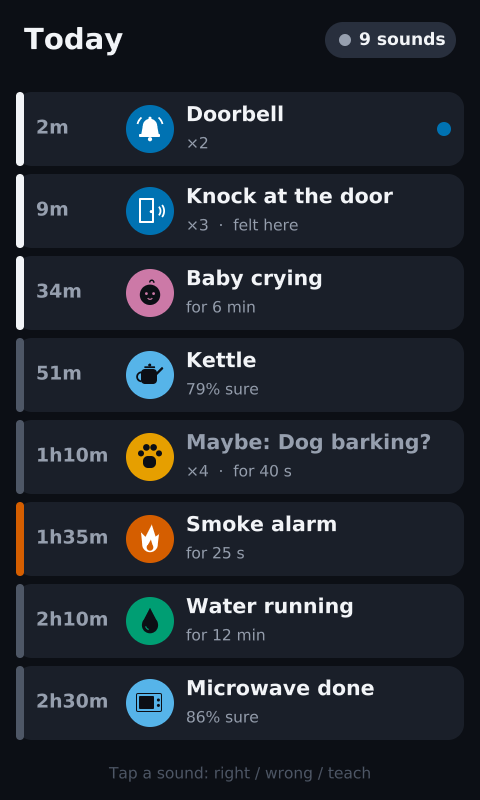
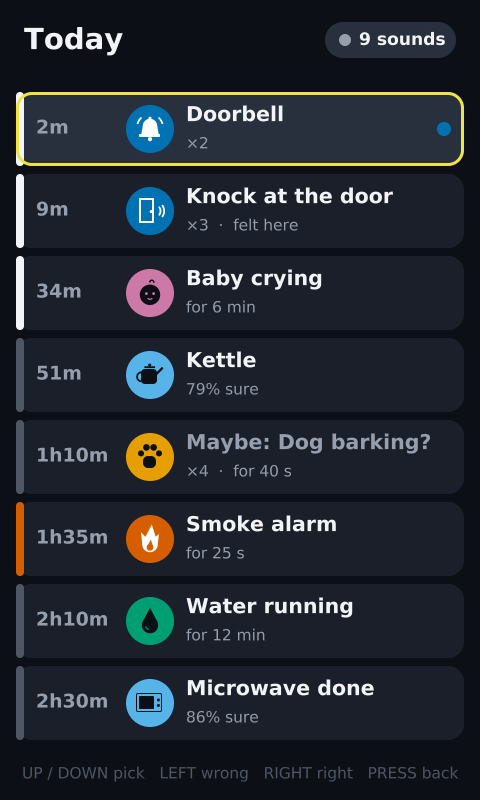
T4 fix mistakes: LEFT wrong / RIGHT right on alerts and the timeline
Wrong keeps the event's embedding as a counter-example: a later sound closer to it than to the
profile is vetoed (flash for taught sounds, RAM for built-ins). Right on a taught sound adds the
example and rebuilds the profile and threshold. Host commands 15 (boot test clip through the real
decision) and 16 (mark an event) test it with no sound: the dog clip matched at 0.79, was marked
wrong, and was vetoed after.

diff --git a/firmware/soundsense/main.cpp b/firmware/soundsense/main.cpp
@@ -115,6 +115,23 @@ static uint8_t taught_n_ex[MAX_TAUGHT];
 static_assert(MAX_TAUGHT <= SS_STORE_MAX_PROF && SHOTS <= SS_STORE_MAX_EX, "flash record too small");
 static int knock_prof = -1;
 
+/* T4: sounds the user marked "wrong" for a profile. A sound closer to one of them than to the profile
+ * itself doesn't count as that profile. Kept in flash for taught sounds; for built-ins until restart. */
+#define CX_MIN 0.70f
+static int8_t cx[MAX_PROF][SS_STORE_MAX_EX][SS_EMB];
+static uint8_t n_cx[MAX_PROF];
+
+static float cx_score(int p, const float *e)
+{
+    float best = -1.0f, c[SS_EMB];
+    for (int k = 0; k < n_cx[p]; k++) {
+        ss_store_f32(cx[p][k], c);
+        const float d = ss_dot(e, c);
+        if (d > best) best = d;
+    }
+    return best;
+}
+
 static const look kFallback = {"?", "Sound", UI_ICON_UNKNOWN, UI_CAT_OTHER, UI_INFO};
 
 /* Built-in profiles in RAM, so they can be re-measured on the board (G3 row 7): the trained ones,
@@ -152,7 +169,7 @@ SS_COLD static void profiles_init(void)
 }
 
 /* Taught profile for a preset: replaces an earlier one of the same name. ex: n int8 examples. */
-SS_COLD static void profile_add(int preset, const float *proto, float thr, const int8_t (*ex)[SS_EMB], int n)
+SS_COLD static int profile_add(int preset, const float *proto, float thr, const int8_t (*ex)[SS_EMB], int n)
 {
     int slot = -1;
     for (int k = 0; k < n_taught; k++)
@@ -166,7 +183,9 @@ SS_COLD static void profile_add(int preset, const float *proto, float thr, const
     memcpy(taught_ex[slot], ex, (size_t)n * SS_EMB);
     taught_n_ex[slot] = (uint8_t)n;
     prof[SS_NUM_BUILTIN + slot] = {&kPresets[preset], taught_proto[slot], thr, true, preset};
+    n_cx[SS_NUM_BUILTIN + slot] = 0;
     n_prof = SS_NUM_BUILTIN + n_taught;
+    return slot;
 }
 
 /* ---------- flash copy of the taught sounds ---------- */
@@ -191,6 +210,8 @@ SS_COLD static void store_save(void)
         memcpy(s.proto, p.proto, sizeof(s.proto));
         s.n_ex = taught_n_ex[k];
         memcpy(s.ex, taught_ex[k], sizeof(s.ex));
+        s.n_cx = n_cx[SS_NUM_BUILTIN + k];
+        memcpy(s.cx, cx[SS_NUM_BUILTIN + k], sizeof(s.cx));
     }
     ss_store_save(&store_img);
 }
@@ -231,7 +252,9 @@ SS_COLD static int store_load(void)
             printf("[STORE] skipped unknown sound '%s'\r\n", s.key);
             continue;
         }
-        profile_add(preset, s.proto, s.thr, s.ex, s.n_ex);
+        const int slot = profile_add(preset, s.proto, s.thr, s.ex, s.n_ex);
+        n_cx[SS_NUM_BUILTIN + slot] = s.n_cx;
+        memcpy(cx[SS_NUM_BUILTIN + slot], s.cx, sizeof(s.cx));
     }
     const ss_store_stats *st = ss_store_get_stats();
     printf("[STORE] loaded %d taught sounds from copy %c, seq %lu, in %lu us\r\n", n_taught, 'A' + st->copy,
@@ -335,11 +358,16 @@ SS_COLD static bool self_test(char *detail, size_t len)
 
 static ui_event events[MAX_EVENTS];   /* newest first */
 static int n_events;
+static int8_t ev_emb[MAX_EVENTS][SS_EMB];   /* each event's latest embedding and profile, for T4 */
+static int8_t ev_prof[MAX_EVENTS];
 
-static ui_event *add_event(const look *lk, bool maybe, ui_felt felt, float score, uint32_t t, bool *merged)
+static ui_event *add_event(const look *lk, bool maybe, ui_felt felt, float score, uint32_t t, bool *merged,
+                           const float *emb, int p)
 {
     ui_event *e = &events[0];
     if (n_events && e->label == lk->label && t - (e->t_ms + e->dur_ms) < MERGE_MS) {
+        ss_store_q8(emb, ev_emb[0]);
+        ev_prof[0] = (int8_t)p;
         e->count++;
         e->dur_ms = t - e->t_ms;
         e->maybe = e->maybe && maybe;
@@ -350,6 +378,10 @@ static ui_event *add_event(const look *lk, bool maybe, ui_felt felt, float score
     }
     if (n_events < MAX_EVENTS) n_events++;
     memmove(&events[1], &events[0], (size_t)(n_events - 1) * sizeof(ui_event));
+    memmove(&ev_emb[1], &ev_emb[0], (size_t)(n_events - 1) * SS_EMB);
+    memmove(&ev_prof[1], &ev_prof[0], (size_t)(n_events - 1));
+    ss_store_q8(emb, ev_emb[0]);
+    ev_prof[0] = (int8_t)p;
     memset(e, 0, sizeof(*e));
     e->label = lk->label;
     e->icon = lk->icon;
@@ -626,6 +658,8 @@ SS_COLD static void cal_finish(void)
     printf("\r\n");
 }
 
+static void classify(const float *e, const float *s, float snr, int clipped, uint32_t onset_ms);
+
 static void decide(uint32_t onset, uint32_t onset_ms)
 {
     static int8_t in[IN_LEN];
@@ -639,7 +673,6 @@ static void decide(uint32_t onset, uint32_t onset_ms)
     score_all(e, s);
     int clipped;
     const float snr = snr_of(onset - KWS_SR / 5, &clipped);
-    const uint32_t now = ss_ms();
 
     if (scr == TEACH) {
         if (tc.ph != T_NAMING) teach_shot(e, snr, clipped);
@@ -657,11 +690,19 @@ static void decide(uint32_t onset, uint32_t onset_ms)
         printf("[SS] t=%lu skipped (joystick)\r\n", (unsigned long)onset_ms);
         return;
     }
+    classify(e, s, snr, clipped, onset_ms);
+}
+
+/* The decision for one sound: its embedding e, scores s, level over the room, and onset time. */
+static void classify(const float *e, const float *s, float snr, int clipped, uint32_t onset_ms)
+{
     int b2;
     const int b = best_of(s, &b2);
     float mg = 0.0f;
     const ui_felt felt = felt_at(onset_ms, &mg);
-    const bool over = s[b] >= prof[b].thr;
+    const float cxs = cx_score(b, e);
+    const bool veto = s[b] >= prof[b].thr && cxs >= CX_MIN && cxs > s[b];   /* T4: like a sound marked wrong */
+    const bool over = s[b] >= prof[b].thr && !veto;
     const bool loud = snr >= MIN_SNR_DB;
 
     const look *lk = NULL;
@@ -683,15 +724,79 @@ static void decide(uint32_t onset, uint32_t onset_ms)
            (double)prof[b].thr, b2 >= 0 ? prof[b2].lk->label : "-", b2 >= 0 ? (double)s[b2] : 0.0,
            felt == UI_FELT_YES ? "yes" : felt == UI_FELT_HEARD_ONLY ? "no" : "n/a", (double)mg,
            lk ? (maybe ? "maybe " : "") : "", lk ? lk->label : (loud ? "unknown" : "quiet"));
+    if (veto) printf("[SS] '%s' vetoed: %.2f to a sound marked wrong\r\n", prof[b].lk->label, (double)cxs);
     if (!lk) return;
 
     bool merged;
-    ui_event *ev = add_event(lk, maybe, f, score, onset_ms, &merged);
+    ui_event *ev = add_event(lk, maybe, f, score, onset_ms, &merged, e, lk == prof[knock_prof].lk ? knock_prof : b);
     /* a knock only heard (TV?) is shown as a banner, not a full-screen alert */
     if (lk == prof[knock_prof].lk && f == UI_FELT_HEARD_ONLY) ev->urgency = UI_INFO;
-    lat[n_lat++ % 16] = now - onset_ms;
+    lat[n_lat++ % 16] = ss_ms() - onset_ms;
     alert_raise(ev);
     if (scr == HOME) redraw = true;
+}
+
+/* ---------- fixing mistakes (T4) ---------- */
+
+/* "Right" on a taught sound: its embedding joins the examples (the oldest goes when full), and the
+ * profile and threshold are rebuilt from all of them, as when teaching. */
+SS_COLD static void taught_add_example(int k, const int8_t *q)
+{
+    int n = taught_n_ex[k];
+    if (n >= SS_STORE_MAX_EX) {
+        memmove(taught_ex[k][0], taught_ex[k][1], (size_t)(n - 1) * SS_EMB);
+        n--;
+    }
+    memcpy(taught_ex[k][n++], q, SS_EMB);
+    taught_n_ex[k] = (uint8_t)n;
+    float emb[SS_STORE_MAX_EX][SS_EMB];
+    for (int j = 0; j < n; j++) ss_store_f32(taught_ex[k][j], emb[j]);
+    profile &p = prof[SS_NUM_BUILTIN + k];
+    const float was = p.thr;
+    p.thr = ss_make_profile(emb, n, taught_proto[k], NULL);
+    printf("[SS] '%s' marked right: now %d examples, threshold %.3f -> %.3f\r\n", p.lk->label, n, (double)was,
+           (double)p.thr);
+    store_save();
+}
+
+/* The user says event i was right or wrong (from its alert or the timeline). */
+SS_COLD static void event_mark(int i, bool right)
+{
+    if (i < 0 || i >= n_events) return;
+    ui_event *ev = &events[i];
+    const int p = ev_prof[i];
+    if (p < 0 || p >= n_prof || prof[p].lk->label != ev->label) {
+        printf("[SS] can't mark '%s': that sound was forgotten\r\n", ev->label);
+        return;
+    }
+    ev->acked = true;
+    ev->fixed = right ? 1 : 2;
+    if (right) {
+        if (p >= SS_NUM_BUILTIN) taught_add_example(p - SS_NUM_BUILTIN, ev_emb[i]);
+        else printf("[SS] '%s' marked right\r\n", ev->label);
+        return;
+    }
+    if (n_cx[p] >= SS_STORE_MAX_EX) {   /* full: the oldest goes */
+        memmove(cx[p][0], cx[p][1], (SS_STORE_MAX_EX - 1) * SS_EMB);
+        n_cx[p]--;
+    }
+    memcpy(cx[p][n_cx[p]++], ev_emb[i], SS_EMB);
+    printf("[SS] '%s' marked wrong: kept as counter-example %d%s\r\n", ev->label, n_cx[p],
+           p >= SS_NUM_BUILTIN ? ", saved" : " (built-in: until restart)");
+    if (p >= SS_NUM_BUILTIN) store_save();
+}
+
+/* Host command 15: the boot test clip (a dog bark) through the encoder and the decision, as if just
+ * heard: a silent way to test the whole decision path, counter-examples included. */
+SS_COLD static void classify_test_clip(void)
+{
+    int8_t out[SS_EMB];
+    float e[SS_EMB], s[MAX_PROF];
+    if (!infer(ss_test_input, out)) return;
+    ss_embed(out, e);
+    score_all(e, s);
+    printf("[SS] command 15: the boot test clip ('%s') as if just heard\r\n", SS_TEST_NAME);
+    classify(e, s, 20.0f, 0, ss_ms());
 }
 
 /* ---------- managing taught sounds (T7) and the menu ---------- */
@@ -707,6 +812,8 @@ SS_COLD static void taught_forget(int k)
         taught_n_ex[j] = taught_n_ex[j + 1];
         prof[SS_NUM_BUILTIN + j] = prof[SS_NUM_BUILTIN + j + 1];
         prof[SS_NUM_BUILTIN + j].proto = taught_proto[j];
+        memcpy(cx[SS_NUM_BUILTIN + j], cx[SS_NUM_BUILTIN + j + 1], sizeof(cx[0]));
+        n_cx[SS_NUM_BUILTIN + j] = n_cx[SS_NUM_BUILTIN + j + 1];
     }
     n_taught--;
     n_prof = SS_NUM_BUILTIN + n_taught;
@@ -839,7 +946,7 @@ SS_COLD static void inject(uint32_t a)
     const ui_felt f = a & 0x200u ? UI_FELT_YES : a & 0x400u ? UI_FELT_HEARD_ONLY : UI_FELT_NA;
     const uint32_t now = ss_ms();
     bool merged;
-    ui_event *ev = add_event(prof[p].lk, (a & 0x100u) != 0, f, prof[p].thr + 0.1f, now, &merged);
+    ui_event *ev = add_event(prof[p].lk, (a & 0x100u) != 0, f, prof[p].thr + 0.1f, now, &merged, prof[p].proto, p);
     if (p == knock_prof && f == UI_FELT_HEARD_ONLY) ev->urgency = UI_INFO;
     printf("[SS] t=%lu injected '%s'%s (host command 13, no sound)\r\n", (unsigned long)now, prof[p].lk->label,
            a & 0x100u ? " maybe" : "");
@@ -852,7 +959,8 @@ SS_COLD static void inject(uint32_t a)
  * 8 press joystick keys (ss_arg = SS_JOY_* bits), 9 re-measure built-in ss_arg from the next sounds,
  * 10 finish re-measuring, 11 save to flash ss_arg times back to back (C2 row 1), 12 fill every taught
  * slot with a stand-in (C2 bench, full-size record), 13 fake a recognised sound (see inject()),
- * 14 redraw the whole screen 10 times a second for ss_arg seconds (C3 row 3). */
+ * 14 redraw the whole screen 10 times a second for ss_arg seconds (C3 row 3), 15 classify the boot test
+ * clip as if heard, 16 mark timeline event (ss_arg & 0xff) wrong, or right with bit 8 (T4). */
 static void host_command(void)
 {
     const uint32_t c = ss_cmd, a = ss_arg;
@@ -874,6 +982,8 @@ static void host_command(void)
     case 12: store_fill_test(); break;
     case 13: inject(a); break;
     case 14: stress_until = ss_ms() + 1000u * (a ? a : 10); break;
+    case 15: classify_test_clip(); break;
+    case 16: event_mark((int)(a & 0xffu), (a & 0x100u) != 0); redraw = true; break;
     }
 }
 
@@ -897,13 +1007,21 @@ static void on_keys(uint32_t k)
         else if (k & SS_JOY_CENTER) menu_choose();
         redraw = true;
         break;
-    case ALERT:
+    case ALERT:   /* LEFT: wrong sound, RIGHT: right (T4); the alert's event is the newest with its label */
+        if (k & (SS_JOY_LEFT | SS_JOY_RIGHT) && !alert_ev.unanswered_ms)
+            for (int i = 0; i < n_events; i++)
+                if (events[i].label == alert_ev.label) {
+                    event_mark(i, (k & SS_JOY_RIGHT) != 0);
+                    break;
+                }
         go_home();
         break;
-    case TIMELINE:
-        if (k & SS_JOY_UP) { if (tl_first > 0) tl_first--; redraw = true; }
-        else if (k & SS_JOY_DOWN) { if (tl_first + 1 < n_events) tl_first++; redraw = true; }
-        else go_home();
+    case TIMELINE:   /* the top row is the selected one: LEFT wrong, RIGHT right (T4) */
+        if (k & SS_JOY_UP) { if (tl_first > 0) tl_first--; }
+        else if (k & SS_JOY_DOWN) { if (tl_first + 1 < n_events) tl_first++; }
+        else if (k & (SS_JOY_LEFT | SS_JOY_RIGHT)) event_mark(tl_first, (k & SS_JOY_RIGHT) != 0);
+        else { go_home(); break; }
+        redraw = true;
         break;
     case STATS:
         go_home();

diff --git a/tools/ui_sim/ui_sim.c b/tools/ui_sim/ui_sim.c
@@ -110,15 +110,15 @@ static void save(const char *name)
 #define NOW (3 * 3600000u + 25 * MIN)
 
 static const ui_event events[] = {
-    {"Doorbell", UI_ICON_DOORBELL, UI_CAT_DOOR, UI_IMPORTANT, false, UI_FELT_NA, 94, 2, NOW - 2 * MIN, 0, false, 0},
-    {"Knock at the door", UI_ICON_KNOCK, UI_CAT_DOOR, UI_IMPORTANT, false, UI_FELT_YES, 88, 3, NOW - 9 * MIN, 0, true, 0},
-    {"Baby crying", UI_ICON_BABY, UI_CAT_FAMILY, UI_IMPORTANT, false, UI_FELT_NA, 91, 1, NOW - 34 * MIN, 6 * MIN, true, 0},
-    {"Kettle", UI_ICON_KETTLE, UI_CAT_APPLIANCE, UI_INFO, false, UI_FELT_NA, 79, 1, NOW - 51 * MIN, 0, true, 0},
-    {"Dog barking", UI_ICON_DOG, UI_CAT_ANIMAL, UI_INFO, true, UI_FELT_NA, 58, 4, NOW - 70 * MIN, 40000, true, 0},
-    {"Smoke alarm", UI_ICON_SMOKE, UI_CAT_SAFETY, UI_URGENT, false, UI_FELT_NA, 97, 1, NOW - 95 * MIN, 25000, true, 0},
-    {"Water running", UI_ICON_WATER, UI_CAT_WATER, UI_INFO, false, UI_FELT_NA, 83, 1, NOW - 130 * MIN, 12 * MIN, true, 0},
-    {"Microwave done", UI_ICON_MICROWAVE, UI_CAT_APPLIANCE, UI_INFO, false, UI_FELT_NA, 86, 1, NOW - 150 * MIN, 0, true, 0},
-    {"Sam's phone", UI_ICON_PHONE, UI_CAT_APPLIANCE, UI_INFO, false, UI_FELT_NA, 81, 1, NOW - 160 * MIN, 0, true, 0},
+    {"Doorbell", UI_ICON_DOORBELL, UI_CAT_DOOR, UI_IMPORTANT, false, UI_FELT_NA, 94, 2, NOW - 2 * MIN, 0, false, 0, 0},
+    {"Knock at the door", UI_ICON_KNOCK, UI_CAT_DOOR, UI_IMPORTANT, false, UI_FELT_YES, 88, 3, NOW - 9 * MIN, 0, true, 0, 0},
+    {"Baby crying", UI_ICON_BABY, UI_CAT_FAMILY, UI_IMPORTANT, false, UI_FELT_NA, 91, 1, NOW - 34 * MIN, 6 * MIN, true, 0, 0},
+    {"Kettle", UI_ICON_KETTLE, UI_CAT_APPLIANCE, UI_INFO, false, UI_FELT_NA, 79, 1, NOW - 51 * MIN, 0, true, 0, 0},
+    {"Dog barking", UI_ICON_DOG, UI_CAT_ANIMAL, UI_INFO, true, UI_FELT_NA, 58, 4, NOW - 70 * MIN, 40000, true, 0, 0},
+    {"Smoke alarm", UI_ICON_SMOKE, UI_CAT_SAFETY, UI_URGENT, false, UI_FELT_NA, 97, 1, NOW - 95 * MIN, 25000, true, 0, 0},
+    {"Water running", UI_ICON_WATER, UI_CAT_WATER, UI_INFO, false, UI_FELT_NA, 83, 1, NOW - 130 * MIN, 12 * MIN, true, 0, 0},
+    {"Microwave done", UI_ICON_MICROWAVE, UI_CAT_APPLIANCE, UI_INFO, false, UI_FELT_NA, 86, 1, NOW - 150 * MIN, 0, true, 0, 0},
+    {"Sam's phone", UI_ICON_PHONE, UI_CAT_APPLIANCE, UI_INFO, false, UI_FELT_NA, 81, 1, NOW - 160 * MIN, 0, true, 0, 0},
 };
 #define N_EVENTS ((int)(sizeof events / sizeof events[0]))
 
@@ -296,6 +296,13 @@ int main(void)
     menu.note = "Press again to forget all 8";
     ui_menu_draw(&menu);
     save("21_menu_full");
+    /* T4: the top row is selected; one sound marked wrong, one right */
+    ui_event tl[N_EVENTS];
+    memcpy(tl, events, sizeof(tl));
+    tl[0].fixed = 2, tl[0].acked = true;
+    tl[2].fixed = 1, tl[2].acked = true;
+    ui_timeline_draw(tl, N_EVENTS, NOW, 0);
+    save("23_timeline_marked");
     home.mode = "Night";
     ui_home_draw(&home, NOW);
     save("22_home_night");

diff --git a/firmware/soundsense/ui/ui.c b/firmware/soundsense/ui/ui.c
@@ -533,8 +533,8 @@ void ui_alert_draw(const ui_event *e, uint32_t now_ms, int phase)
         gfx_text_center(B, GFX_W / 2, GFX_H - 84, "Press to dismiss", bg, 32);
         return;
     }
-    gfx_text_center(L, GFX_W / 2, GFX_H - 70,
-                    e->maybe ? "Tap: right / wrong" : "Tap anywhere to dismiss", mix(bg, ink, 0.7f), 24);
+    gfx_text_center(L, GFX_W / 2, GFX_H - 70, e->maybe ? "RIGHT it was   LEFT it wasn't   PRESS ok"
+                                                       : "PRESS ok   LEFT wrong sound", mix(bg, ink, 0.7f), 24);
 }
 
 void ui_banner_draw(const ui_event *e, uint32_t now_ms)
@@ -563,9 +563,10 @@ UI_COLD void ui_timeline_draw(const ui_event *ev, int n, uint32_t now_ms, int fi
         const ui_event *e = &ev[i];
         const int y = 92 + row * 82;
         char when[24], label[48], detail[64];
-        gfx_round_rect(16, y, 448, 74, 16, PANEL);
+        gfx_round_rect(16, y, 448, 74, 16, row == 0 ? PANEL2 : PANEL);
         gfx_round_rect(16, y, 8, 74, 4, e->urgency == UI_URGENT ? VERMILLION
                                          : e->urgency == UI_IMPORTANT ? TEXT : FAINT);
+        if (row == 0) gfx_round_frame(16, y, 448, 74, 16, 3, YELLOW);   /* selected: LEFT / RIGHT mark it */
         fmt_when(when, sizeof when, e->t_ms, now_ms);
         if (!clock_set) {                  /* compact relative time for the column */
             const uint32_t s = (now_ms - e->t_ms) / 1000;
@@ -579,10 +580,12 @@ UI_COLD void ui_timeline_draw(const ui_event *ev, int n, uint32_t now_ms, int fi
         gfx_text(B, 186, y + 10, label, e->maybe ? MUTED : TEXT, 24);
         fmt_detail(detail, sizeof detail, e, now_ms, false);
         if (!detail[0]) snprintf(detail, sizeof detail, "%u%% sure", e->confidence);
-        gfx_text(L, 186, y + 42, detail, MUTED, 18);
+        if (e->fixed == 2) gfx_text(B, 186, y + 42, "Marked wrong", VERMILLION, 18);
+        else if (e->fixed == 1) gfx_text(B, 186, y + 42, "Marked right", GREEN, 18);
+        else gfx_text(L, 186, y + 42, detail, MUTED, 18);
         if (!e->acked) gfx_circle(444, (float)(y + 37), 7, ui_cat_color(e->cat));
     }
-    footer("Tap a sound: right / wrong / teach");
+    footer("UP / DOWN pick   LEFT wrong   RIGHT right   PRESS back");
 }
 
 /* ---------- teaching ---------- */

diff --git a/firmware/soundsense/ui/ui.h b/firmware/soundsense/ui/ui.h
@@ -54,6 +54,7 @@ typedef struct {
     uint32_t dur_ms;       /* how long it went on; 0 for a short sound */
     bool acked;
     uint32_t unanswered_ms;  /* urgent alert on screen this long with no press (A5); 0 until it escalates */
+    uint8_t fixed;           /* T4: 1 marked right, 2 marked wrong */
 } ui_event;
 
 typedef struct {
@@ -126,6 +127,7 @@ void ui_alert_draw(const ui_event *e, uint32_t now_ms, int phase);
 /* Info-level sounds: a banner across the top of the home screen. */
 void ui_banner_draw(const ui_event *e, uint32_t now_ms);
 
+/* `first` is the top row and the selected one (marked right or wrong with LEFT / RIGHT). */
 void ui_timeline_draw(const ui_event *ev, int n, uint32_t now_ms, int first);
 void ui_teach_draw(const ui_teach *t);
 void ui_stats_draw(const ui_stats *s);

diff --git a/docs/STATUS.md b/docs/STATUS.md
@@ -9,7 +9,7 @@ behind every "Done" are in [GATES-results.md](GATES-results.md).
 | Priority | Total | Done | Partial | Not started |
 |---|---|---|---|---|
 | **P0** (must-have product) | 16 | **15** | 1 (T2) | 0 |
-| **P1** (makes it good) | 16 | 6 | 5 | 5 |
+| **P1** (makes it good) | 16 | 7 | 5 | 4 |
 | **P2** (nice to have) | 20 | 0 | 4 | 16 |
 | **P3** (stretch) | 7 | 0 | 0 | 7 |
 
@@ -78,7 +78,7 @@ examples (they work well live; the offline test uses unseen clips from strangers
 | T1 | Guided teach flow | P0 | Done | 5 examples, each shown with its dB over the room |
 | T2 | Quality check per example | P0 | **Partial** | "Too quiet" and "clipped" done; "unlike the others" and "background too loud" missing |
 | T3 | Test right after teaching | P0 | Done | |
-| T4 | Fix mistakes from the timeline | P1 | Not started | The flash record already has room for counter-examples |
+| T4 | Fix mistakes from the timeline | P1 | Done | Timeline (selected top row) or alert: LEFT = wrong, RIGHT = right. Wrong keeps the sound's embedding as a counter-example: a sound closer to it than to the profile is vetoed (saved in flash for taught sounds; built-ins until restart). Right on a taught sound adds an example and rebuilds its profile and threshold. Tested silently with the boot test clip (host command 15) |
 | T5 | Sensitivity on the knob | P1 | Not started | |
 | T6 | Similar-sound warning | P1 | Not started | |
 | T7 | Manage sounds (rename, delete, factory reset) | P1 | Partial | Menu: forget one taught sound or all of them (press twice to confirm), saved to flash. No rename, urgency or built-in on/off |
